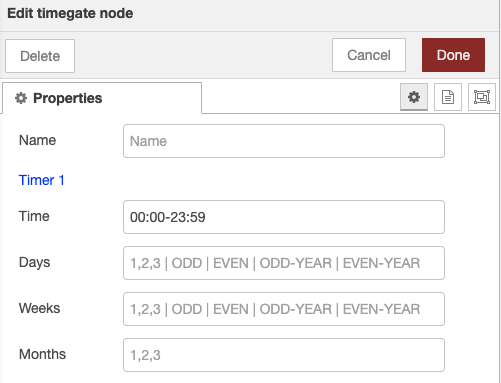
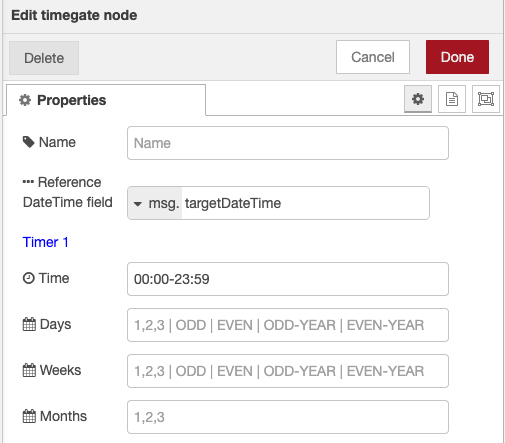
Updated documentation with the new capability

diff --git a/README.md b/README.md
@@ -29,9 +29,23 @@ passes the input msg when none of the timer matches the current time.
 
 ## Configurations
 
-You can configure up to five different time matching configurations.
-
 ![node-red-contrib-timegate-setup](assets/images/node-setup.png)
+
+### Reference datetime
+The node can use the *current date and time* to check against one of it's configurations or can be initialized with a *property inside the message* passed to it's input, a value inside the *flow* object or a *global value*.
+
+You can use the **Reference DateTime Field** to decide where to get an external reference datetime from.
+
+The value can be specified in one of these formats:
+```
+YYYY/MM/DD hh:mm 
+YYYY/MM/DD
+```
+
+If the msg/flow/global variable is not set, the node will use the current date time.
+
+### Time matching configurations
+You can configure up to five different time matching configurations to be checked against the reference datetime.
 
 For each configuration, you can specify these parameters:
 
@@ -123,3 +137,4 @@ Thanks.
 * 1.0.3 Fixed a regression bug
 * 1.0.4 Moved examples to the correct folder
 * 1.0.5 Fixes issue #6 Name not shown in node
+* 1.0.6 Added the possibility to read reference datetime from msg, flow or global
